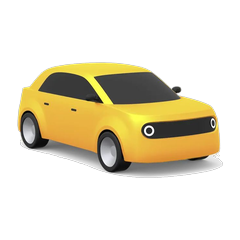
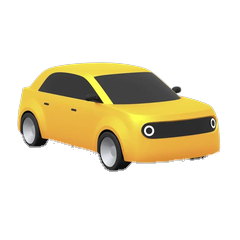
Mashina ikonkasidan qolib ketgan soya/oq dogni tozaladim, mashina ikonkasi 3% kattalashdi, tugmalardagi blesk effektini kichikroq va tabiiyroq qildim

Changed region(s): [[0.0875, 0.5542, 0.9333, 0.7583]]

diff --git a/index.html b/index.html
@@ -759,11 +759,13 @@ body.view-driver .driver-route-bar{
   will-change:transform,box-shadow;
   transition:transform .09s ease,box-shadow .09s ease,background .09s ease;
 }
-/* Tepadagi shishasimon (glossy) yorug'lik dog'i — fizik tugmaning xarakterli jilosi */
+/* Tepadagi shishasimon (glossy) yorug'lik dog'i — fizik tugmaning xarakterli
+   jilosi. Kichikroq va tabiiyroq bo'lishi uchun torroq, pastroq opasiyada
+   va yumshoqroq so'nadigan qilib qo'ydim. */
 .uni-action-btn::before{
-  content:"";position:absolute;left:6%;right:6%;top:8%;height:36%;z-index:0;
+  content:"";position:absolute;left:16%;right:16%;top:10%;height:20%;z-index:0;
   border-radius:50%;
-  background:linear-gradient(180deg,rgba(255,255,255,.8),rgba(255,255,255,0));
+  background:linear-gradient(180deg,rgba(255,255,255,.5),rgba(255,255,255,0) 85%);
   pointer-events:none;
 }
 .uni-action-btn:active{
@@ -800,6 +802,8 @@ body.view-driver .driver-route-bar{
 .uni-action-icon svg{width:100%;height:100%;display:block;filter:drop-shadow(0 2px 3px rgba(0,0,0,.3))}
 .uni-action-icon-img{width:100%;height:100%;display:block;object-fit:contain;filter:drop-shadow(0 2px 3px rgba(0,0,0,.3))}
 .uni-action-btn--cargo .uni-action-icon-img{width:114%;height:114%}
+/* Faqat "Haydovchiman" (mashina) ikonkasi qoshimcha 3% ga kattalashadi */
+.uni-action-btn--driver .uni-action-icon-img{width:103%;height:103%}
 /* "Yuk yuboraman" ikonkasidagi parashyut shamolda salgina tebranayotgandek —
    faqat CSS transform (GPU'da arzon, layout/reflow triggermaydi), shu sabab
    telefonda sekinlashuv yoki qotishga olib kelmaydi. */
